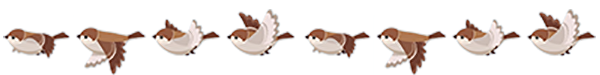
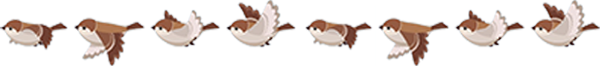
cropped bird imgs, added red & green imgs for hitting predators & prey

Changed region(s): [[0.0, 0.0, 1.0, 1.0]]

diff --git a/View.java b/View.java
@@ -64,6 +64,14 @@ public class View extends JPanel{
 	final static int Trash = 8;
 	final static int FoxBck=9;
 	final static int Twig = 10;
+	final static int NonMigFwdRed = 11;
+	final static int NonMigBckRed = 12;
+	final static int MigFwdRed = 13;
+	final static int MigBckRed = 14;
+	final static int NonMigFwdGreen = 15;
+	final static int NonMigBckGreen = 16;
+	final static int MigFwdGreen = 17;
+	final static int MigBckGreen = 18;
 	
 	BufferedImage grassImg;
 	BufferedImage marshImg;
@@ -111,11 +119,19 @@ public class View extends JPanel{
 		lvlStart = true;
 		cropAmount =150;
 		
-    	pics = new BufferedImage[11][frameCount];
+    	pics = new BufferedImage[19][frameCount];
     	BufferedImage img = createImage("bird_forward_75.png");
     	BufferedImage img2 = createImage("bird_backward_75.png");
+    	BufferedImage redimg = createImage("bird_forward_red.png");
+    	BufferedImage redimg2 = createImage("bird_backward_red.png");
+    	BufferedImage greenimg = createImage("bird_forward_green.png");
+    	BufferedImage greenimg2 = createImage("bird_backward_green.png");
     	BufferedImage b2img = createImage("bird2_forward_75.png");
     	BufferedImage b2img2 = createImage("bird2_backward_75.png");
+    	BufferedImage redb2img = createImage("bird2_forward_red.png");
+    	BufferedImage redb2img2 = createImage("bird2_backward_red.png");
+    	BufferedImage greenb2img = createImage("bird2_forward_green.png");
+    	BufferedImage greenb2img2 = createImage("bird2_backward_green.png");
     	BufferedImage planeImg = createImage("plane.png");
     	BufferedImage mouseImg = createImage("mouse.png");
     	BufferedImage fishImg = createImage("fish.png");
@@ -151,6 +167,14 @@ public class View extends JPanel{
     		pics[Trash][i] = resizeImg(trashImg, Pollution.width, Pollution.height);
     		pics[PlaneImg][i] = resizeImg(planeImg, Plane.width, Plane.height);
     		pics[Twig][i] = resizeImg(woodImg, Wood.width, Wood.height);
+    		pics[NonMigFwdRed][i] = resizeImg(redimg.getSubimage(Bird.width*i,  0,  Bird.width,  Bird.height), Bird.width, Bird.height);
+    		pics[NonMigBckRed][i] = resizeImg(redimg2.getSubimage(Bird.width*i,  0,  Bird.width,  Bird.height), Bird.width, Bird.height);
+    		pics[MigFwdRed][i] = resizeImg(redb2img.getSubimage(Bird.width*i,  0,  Bird.width,  Bird.height), Bird.width, Bird.height);
+    		pics[MigBckRed][i] = resizeImg(redb2img2.getSubimage(Bird.width*i,  0,  Bird.width,  Bird.height), Bird.width, Bird.height);
+    		pics[NonMigFwdGreen][i] = resizeImg(greenimg.getSubimage(Bird.width*i,  0,  Bird.width,  Bird.height), Bird.width, Bird.height);
+    		pics[NonMigBckGreen][i] = resizeImg(greenimg2.getSubimage(Bird.width*i,  0,  Bird.width,  Bird.height), Bird.width, Bird.height);
+    		pics[MigFwdGreen][i] = resizeImg(greenb2img.getSubimage(Bird.width*i,  0,  Bird.width,  Bird.height), Bird.width, Bird.height);
+    		pics[MigBckGreen][i] = resizeImg(greenb2img2.getSubimage(Bird.width*i,  0,  Bird.width,  Bird.height), Bird.width, Bird.height);
     	}
     	
 		

diff --git a/Bird.java b/Bird.java
@@ -19,7 +19,9 @@ public class Bird extends Character{
 	int xVector;
 	int yVector;
 	static int width = 75;
-	static int height = 75;
+	static int height = 66;
+	int hurt;
+	int powerup;
 	
 	
 	// Variables to help eat method 
@@ -37,7 +39,8 @@ public class Bird extends Character{
 		xVector=0;
 		yVector=0;
 		migrate = false;
-		
+		hurt = 0;
+		powerup = 0;
 	}
 
 	/** 
@@ -171,18 +174,53 @@ public class Bird extends Character{
 	
 	public void checkImage() {
 		int imgInd=0;
-		if (migrate)
-		{
-			if(direction.equals(Direction.EAST))
-				imgInd=View.MigFwd;
-			else
-				imgInd=View.MigBck;
+		if(hurt > 0) {
+			if (migrate) {
+				if(direction.equals(Direction.EAST)) {
+					imgInd=View.MigFwdRed;
+				}
+				else {
+					imgInd=View.MigBckRed;
+				}
+			}
+			else {
+				if(direction.equals(Direction.EAST))
+					imgInd=View.NonMigFwdRed;
+				else
+					imgInd=View.NonMigBckRed;
+			}
+			hurt--;
 		}
+		else if(hurt < 0) {
+			if (migrate) {
+				if(direction.equals(Direction.EAST)) {
+					imgInd=View.MigFwdGreen;
+				}
+				else {
+					imgInd=View.MigBckGreen;
+				}
+			}
+			else {
+				if(direction.equals(Direction.EAST))
+					imgInd=View.NonMigFwdGreen;
+				else
+					imgInd=View.NonMigBckGreen;
+			}
+			hurt++;
+		}
+		
 		else {
-			if(direction.equals(Direction.EAST))
-				imgInd=View.NonMigFwd;
-			else
-				imgInd=View.NonMigBck;
+			if (migrate)
+			{
+				imgInd=View.MigFwd;
+			}
+			else {
+				if(direction.equals(Direction.EAST))
+					imgInd=View.NonMigFwd;
+				else
+					imgInd=View.NonMigBck;
+			}
+			
 		}
 		super.setImgInd(imgInd);
 	}

diff --git a/Model.java b/Model.java
@@ -157,6 +157,9 @@ public class Model{
 			{
 				if(c.getClass()==Prey.class)
 				{
+					if(player.hurt == 0) {
+						player.hurt = -20;//switch to red images
+					}
 					player.updateHealth(100);
 					return true;
 				}
@@ -171,6 +174,9 @@ public class Model{
 				}
 				else
 				{
+					if(player.hurt == 0) {
+						player.hurt = 20;//switch to red images
+					}
 					player.updateHealth(-100);
 				}
 				c.touch=true;
